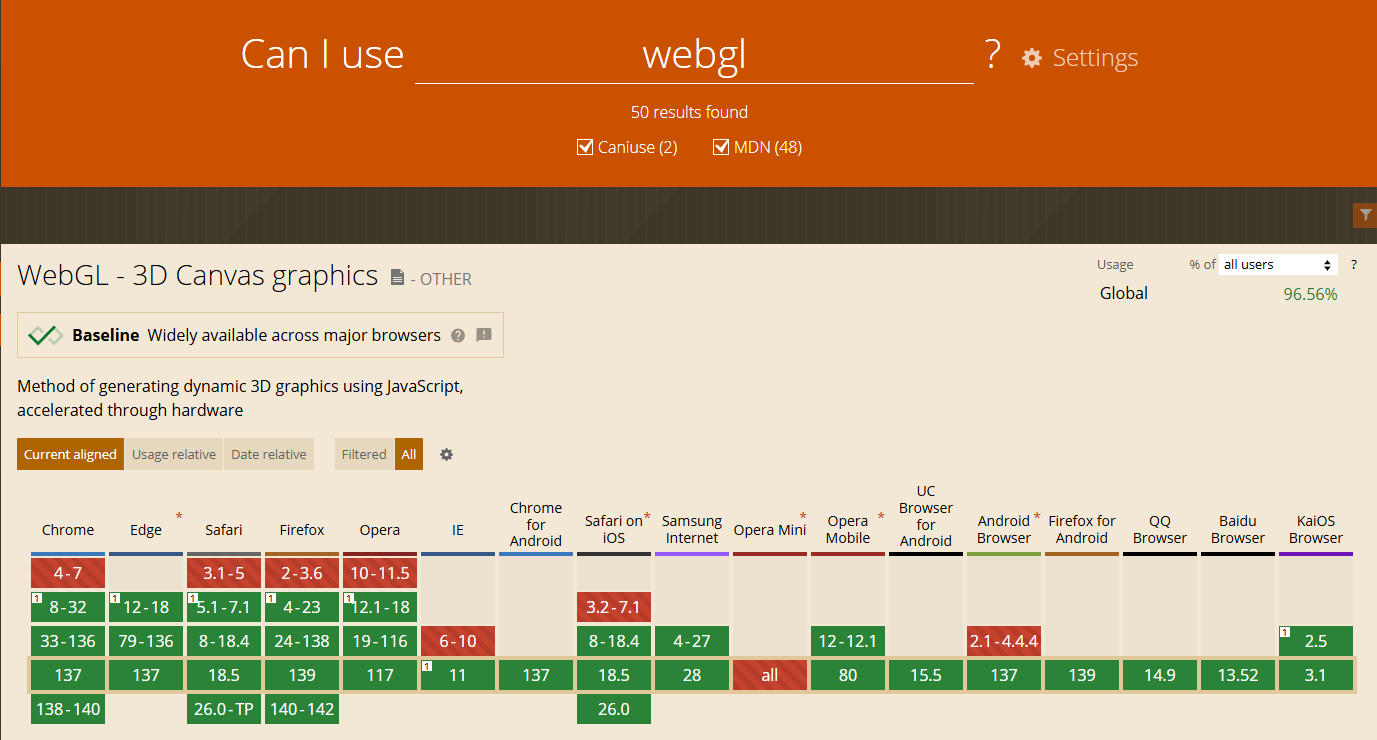
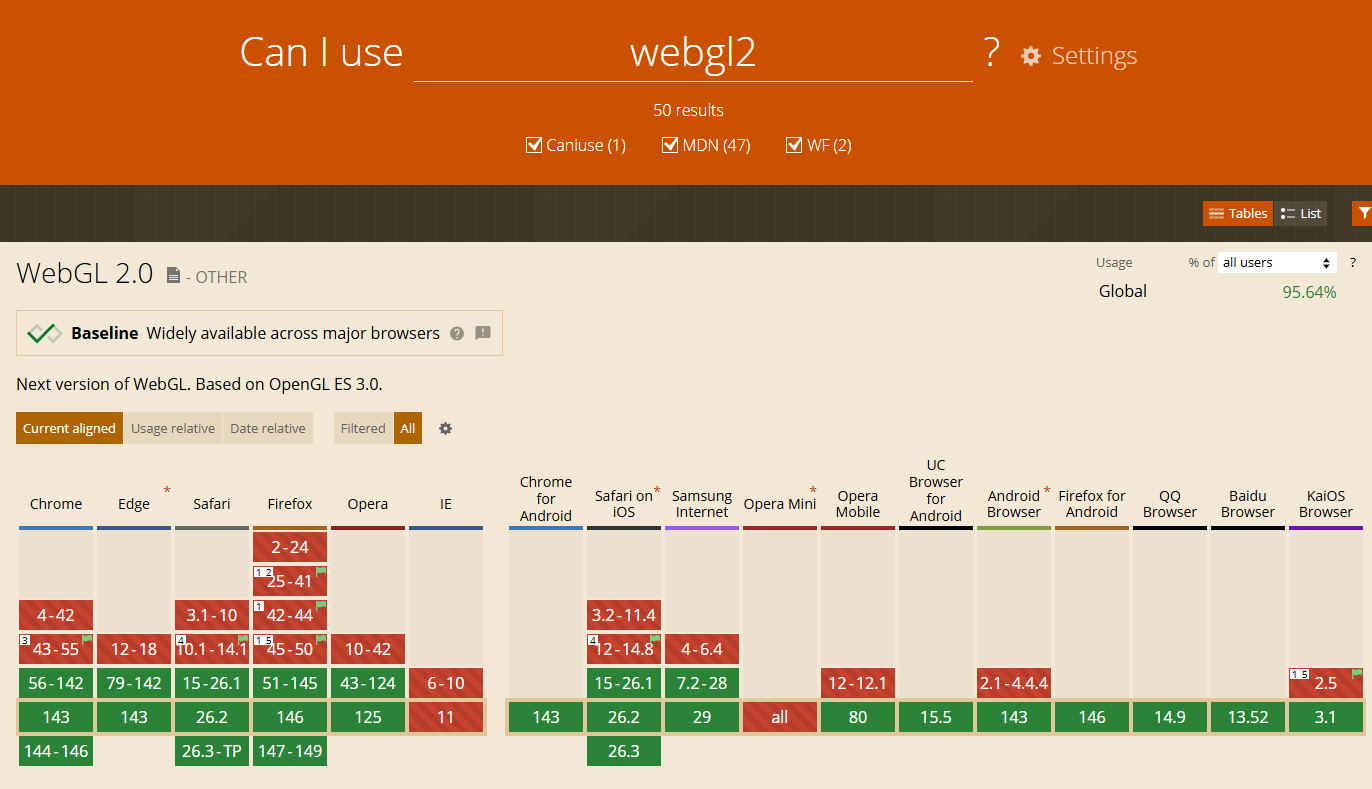
chore(docs): update minimum browser requirements and onlice resources pages

diff --git a/docusaurus/docs/user-manual/online-resources-and-help/index.md b/docusaurus/docs/user-manual/online-resources-and-help/index.md
@@ -30,22 +30,23 @@ There are several online resources to help you get the best out of SciChart.js J
 4.  Support tickets (licensed customers only) at [https://support.scichart.com](https://support.scichart.com)
 5. Free AI Assistant at https://chat.scichart.com
 6. The SciChart.js Online Demo with ~500 JavaScript, React and Angular demos at [https://www.scichart.com/demo](https://www.scichart.com/demo)
-7. Source code for Online JavaScript, React, Angular Demos at [https://github.com/ABTSoftware/SciChart.JS.Examples/tree/master/Examples](https://github.com/ABTSoftware/SciChart.JS.Examples/tree/master/Examples)
-8. Source code for tutorials [https://github.com/ABTSoftware/SciChart.JS.Examples/tree/master/Tutorials](https://github.com/ABTSoftware/SciChart.JS.Examples/tree/master/Tutorials)
-9. Source code for framework boilerplate examples [https://github.com/ABTSoftware/SciChart.JS.Examples/tree/master/Boilerplates](https://github.com/ABTSoftware/SciChart.JS.Examples/tree/master/Boilerplates)
-    - [React Typescript Demo](https://github.com/ABTSoftware/SciChart.JS.Examples/tree/master/BoilerPlates/react-typescript)
-    - [Vue Demo](https://github.com/ABTSoftware/SciChart.JS.Examples/tree/master/BoilerPlates/vue)
-    - [Angular Demo](https://github.com/ABTSoftware/SciChart.JS.Examples/tree/master/BoilerPlates/scichart-angular)
-    - [Webpack Typescript Demo](https://github.com/ABTSoftware/SciChart.JS.Examples/tree/master/Sandbox/demo-webpack-typescript)
-    - [Electron Demo](https://github.com/ABTSoftware/SciChart.JS.Examples/tree/master/BoilerPlates/electron)
-    - [Blazor Demo](https://github.com/ABTSoftware/SciChart.JS.Examples/tree/master/BoilerPlates/blazor)
-    - [Browser Global Module Demo](https://github.com/ABTSoftware/SciChart.JS.Examples/tree/master/Sandbox/demo-browser-global-module)
-    - [Create React App Demo](https://github.com/ABTSoftware/SciChart.JS.Examples/tree/master/Sandbox/demo-create-react-app-scichart)
-    - [Next.js Demo](https://github.com/ABTSoftware/SciChart.JS.Examples/tree/master/BoilerPlates/next)
-    - [Nuxt.js Demo](https://github.com/ABTSoftware/SciChart.JS.Examples/tree/master/BoilerPlates/nuxt)
-    - [React Vite Demo](https://github.com/ABTSoftware/SciChart.JS.Examples/tree/master/BoilerPlates/react-vite)
+7. Source code for Online JavaScript, React, Angular Demos at [https://github.com/ABTSoftware/SciChart.JS.Examples/tree/dev_v5.x/Examples](https://github.com/ABTSoftware/SciChart.JS.Examples/tree/dev_v5.x/Examples)
+8. Source code for tutorials [https://github.com/ABTSoftware/SciChart.JS.Examples/tree/dev_v5.x/Tutorials](https://github.com/ABTSoftware/SciChart.JS.Examples/tree/dev_v5.x/Tutorials)
+9. Source code for framework boilerplate examples [https://github.com/ABTSoftware/SciChart.JS.Examples/tree/dev_v5.x/BoilerPlates](https://github.com/ABTSoftware/SciChart.JS.Examples/tree/dev_v5.x/BoilerPlates)
+    - [React Typescript Demo](https://github.com/ABTSoftware/SciChart.JS.Examples/tree/dev_v5.x/BoilerPlates/react-typescript)
+    - [React Demo using scichart-react](https://github.com/ABTSoftware/SciChart.JS.Examples/tree/dev_v5.x/BoilerPlates/scichart-react)
+    - [Vue Demo](https://github.com/ABTSoftware/SciChart.JS.Examples/tree/dev_v5.x/BoilerPlates/vue)
+    - [Angular Demo](https://github.com/ABTSoftware/SciChart.JS.Examples/tree/dev_v5.x/BoilerPlates/angular)
+    - [Angular Demo using scichart-angular](https://github.com/ABTSoftware/SciChart.JS.Examples/tree/dev_v5.x/BoilerPlates/scichart-angular)
+    - [Webpack Typescript Demo](https://github.com/ABTSoftware/SciChart.JS.Examples/tree/dev_v5.x/BoilerPlates/webpack-typescript)
+    - [Electron Demo](https://github.com/ABTSoftware/SciChart.JS.Examples/tree/dev_v5.x/BoilerPlates/electron)
+    - [Blazor Demo](https://github.com/ABTSoftware/SciChart.JS.Examples/tree/dev_v5.x/BoilerPlates/blazor)
+    - [Browser Global Module Demo](https://github.com/ABTSoftware/SciChart.JS.Examples/tree/dev_v5.x/BoilerPlates/browser-global-module)
+    - [Next.js Demo](https://github.com/ABTSoftware/SciChart.JS.Examples/tree/dev_v5.x/BoilerPlates/next)
+    - [Nuxt.js Demo](https://github.com/ABTSoftware/SciChart.JS.Examples/tree/dev_v5.x/BoilerPlates/nuxt)
+    - [React Vite Demo](https://github.com/ABTSoftware/SciChart.JS.Examples/tree/dev_v5.x/BoilerPlates/react-vite)
 10. Source code for different customer examples [https://github.com/ABTSoftware/SciChart.JS.Examples/tree/master/Sandbox/CustomerExamples](https://github.com/ABTSoftware/SciChart.JS.Examples/tree/master/Sandbox/CustomerExamples)
 11. Advanced Licensing (OEM / Server side licensing) Demos
-    - [.Net Server Side Licensing Demo](https://github.com/abtsoftware/SciChart.JS.Examples/tree/master/AdvancedLicensing/dotnet-server-licensing)
-    - [Node.js Server Side Licensing Demo](https://github.com/ABTSoftware/SciChart.JS.Examples/tree/master/AdvancedLicensing/nodejs-server-licensing)
-    - [C++ Licensing components for any server environment](https://github.com/ABTSoftware/SciChart.JS.Examples/tree/master/AdvancedLicensing/SciChartLicenseServer)
+    - [.Net Server Side Licensing Demo](https://github.com/abtsoftware/SciChart.JS.Examples/tree/dev_v5.x/AdvancedLicensing/dotnet-server-licensing)
+    - [Node.js Server Side Licensing Demo](https://github.com/ABTSoftware/SciChart.JS.Examples/tree/dev_v5.x/AdvancedLicensing/nodejs-server-licensing)
+    - [C++ Licensing components for any server environment](https://github.com/ABTSoftware/SciChart.JS.Examples/tree/dev_v5.x/AdvancedLicensing/SciChartLicenseServer)

diff --git a/docusaurus/docs/user-manual/minimum-browser-requirements/index.md b/docusaurus/docs/user-manual/minimum-browser-requirements/index.md
@@ -22,7 +22,7 @@ Are you new to SciChart? Check out our most popular pages to get started below:
 
 SciChart.js is a cutting-edge next-generation JavaScript Chart Library. As a result, we are using the latest technologies to draw our fast, real-time and interactive JavaScript charts.
 
-Minimum requirement for deployment of an application with SciChart.js is **your browser must support WebAssembly (wasm) and WebGL 1 (preferably WebGL 2).**
+Minimum requirement for deployment of an application with SciChart.js is **your browser must support WebAssembly (wasm) and WebGL 2.** WebGL 1 support has been dropped starting from v5.
 
 A full table of which browsers are supported can be found at the [caniuse.com](https://caniuse.com/) website.
 
@@ -52,45 +52,24 @@ WebAssembly can be enabled in some earlier browsers can by adjusting settings. S
 Note: WebAssembly support is not available on Internet Explorer 11, but is available on IE Edge 16 or later, Google Chrome, FireFox and Safari
 :::
 
-WebGL 1 Minimum Browser Support
--------------------------------
-
-According to [caniuse.com](https://caniuse.com/#search=webgl), 96.56% of web browsers worldwide support WebGL 1. SciChart achieves the best performance with a WebGL 2 browser support, but all features are available on WebGL 1.
-
-Minimum versions can be found below
-
-[![](2.png)](https://caniuse.com/#search=webgl)
-
-WebGL 1 is supported on
-
-*   Chrome v8 or later
-*   IE Edge v12 or later
-*   Firefox v4 or later
-*   Safari v5 or later
-*   Opera v12 or later.
-*   Almost all modern mobile and desktop browsers support WebGL 1
-
 WebGL 2 Minimum Browser Support
 -------------------------------
 
-According to [caniuse.com](https://caniuse.com/#search=webgl2), 95.1% of web browsers worldwide now support WebGL 2. SciChart achieves superior performance with WebGL 2, but will automatically drop down to WebGL 1 where this latest API is not available.
+According to [caniuse.com](https://caniuse.com/#search=webgl2), 95.64% of web browsers worldwide support WebGL 2.
 
-[![](3.png)](https://caniuse.com/#search=webgl2)
+Minimum versions can be found below
 
-WebGL 2 is supported on
+[![](2.png)](https://caniuse.com/#search=webgl2)
+
+WebGL 2 is supported on
 
 *   Chrome v56 or later
-*   IE Edge v79 or later
+*   Edge v79 or later
+*   Safari v15 or later
 *   Firefox v51 or later
-*   Safari iOS v 15 or later
-*   Safari mac v15 or later
-*   Firefox for Android v107
-*   Android Browser v108
-*   Opera mobile v72
-
-:::warning
-Note: WebGL 2 support is not available on earlier versions of Safari (Desktop or mobile), but in cases where WebGL 2 is not available SciChart.js will automatically downgrade to WebGL 1.
-:::
+*   Opera v43 or later
+*   IE not supported
+*   Almost all modern mobile and desktop browsers support WebGL 2
 
 FAQs
 ----

diff --git a/docusaurus/docs/user-manual/what-chart-types/index.md b/docusaurus/docs/user-manual/what-chart-types/index.md
@@ -21,6 +21,7 @@ The following page is a comprehensive list of all features in SciChart.js. From 
 - supports fast, real-time updates of data, efficient structure of arrays data formats, optional Js objects at X,y data-points (metadata API), data-labels rendered on the chart
 - supports per-point colouring (individual data-point colouring) via the PaletteProvider API
 - supports full GPU hardware acceleration via WebGL and fast pointer-based arithmetic and memory operations via WebAssembly
+- SIMD - Single Instruction, Multiple Data, which makes CPU intensive operations like resampling much faster
 - a programmatic API (JavaScript) or optional side-by-side JSON Builder API allowing creation of charts via JSON or JavaScript configuration objects
 - serialization/deserialization of charts to JSON
 - accessibility
